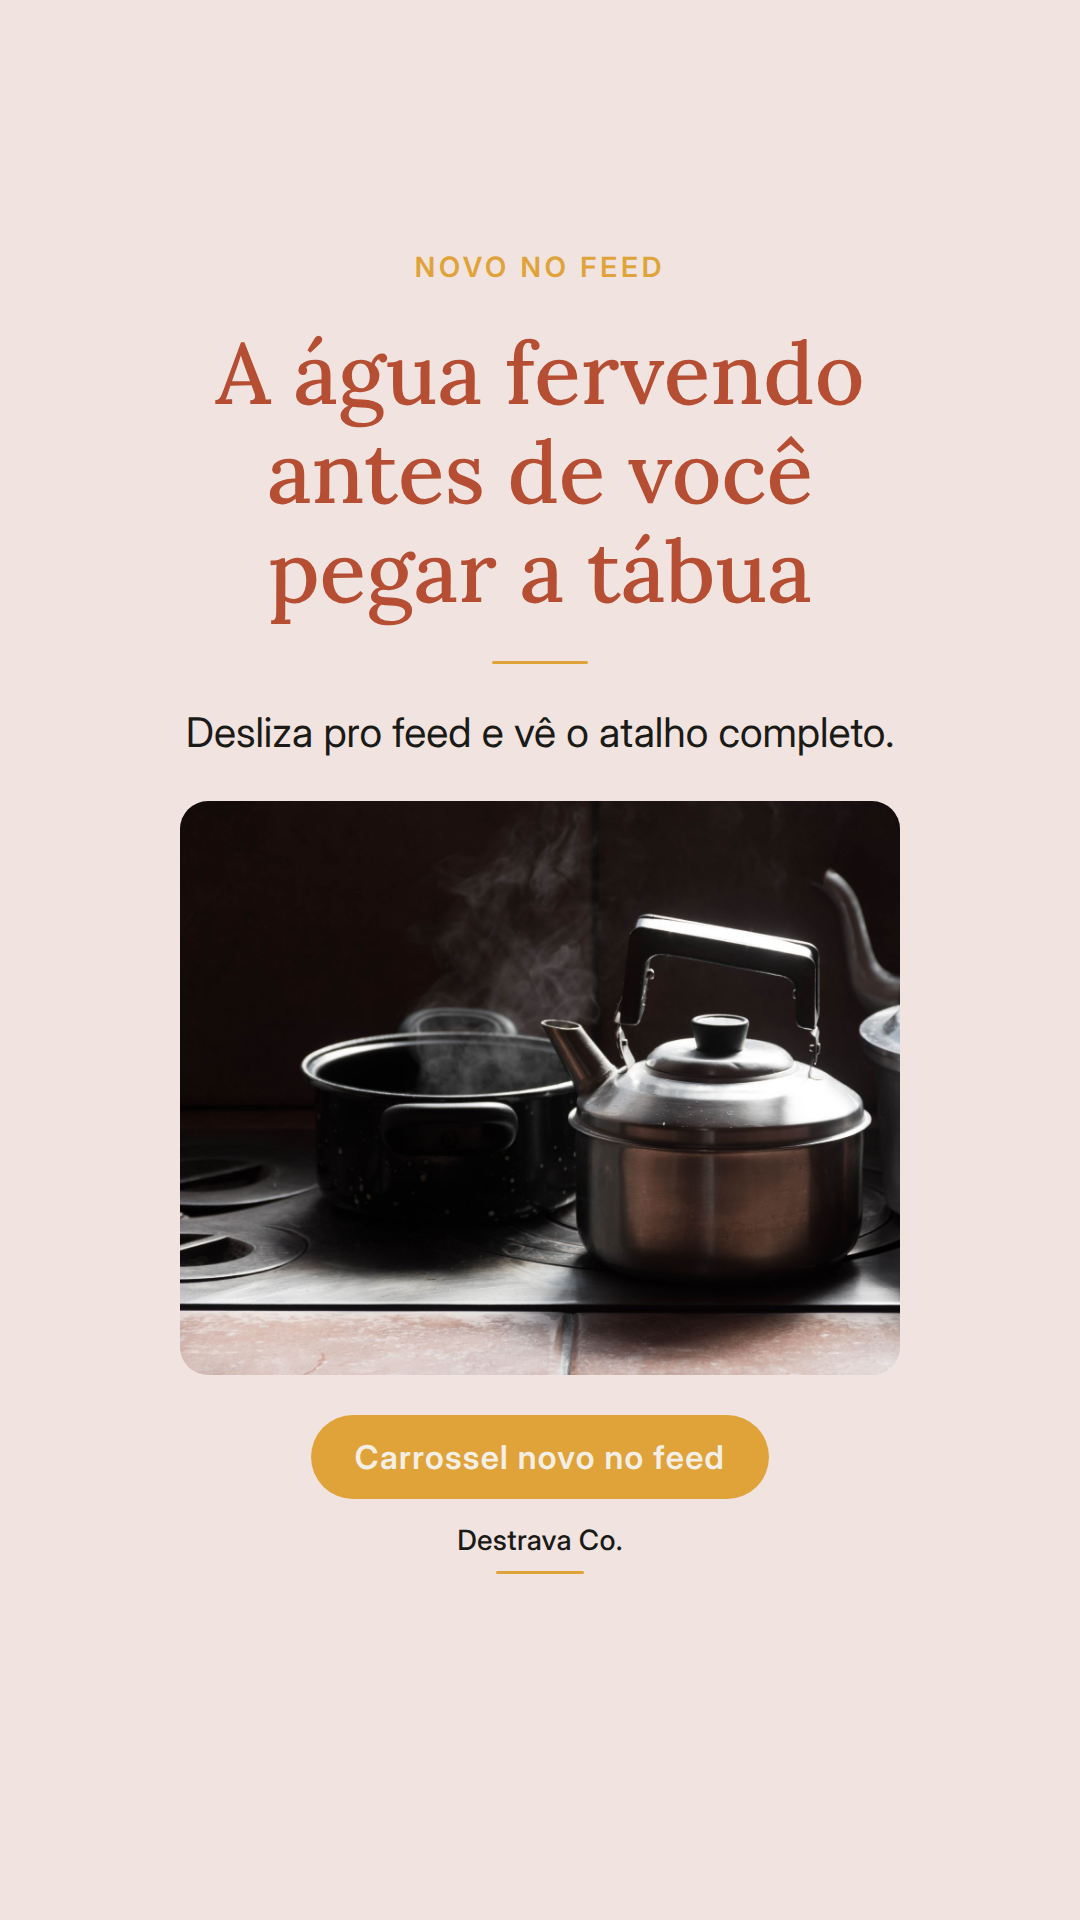
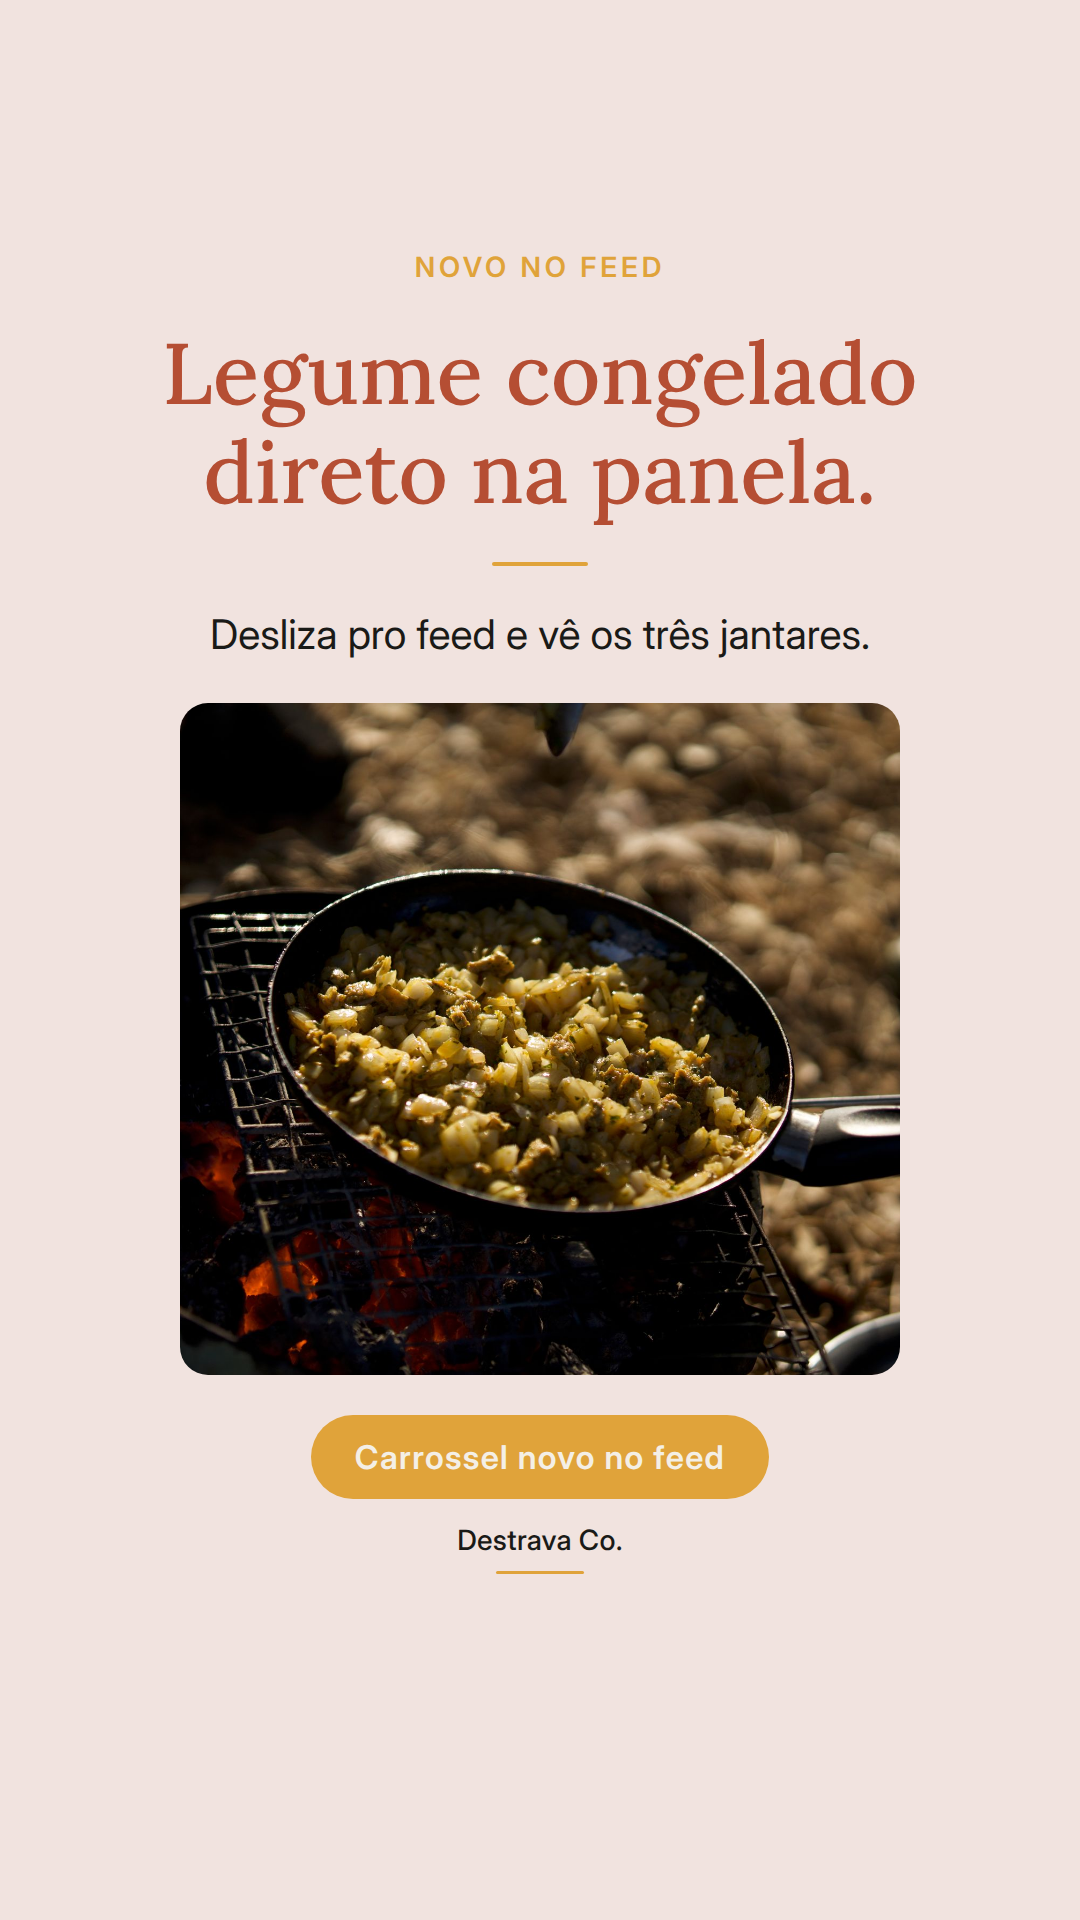
content: peças Instagram 2026_11_03

Changed region(s): [[0.1528, 0.1562, 0.8556, 0.7188]]

diff --git a/public/content/2026_11_03/index.html b/public/content/2026_11_03/index.html
@@ -19,23 +19,22 @@
 </head>
 <body>
 <h1>Cozinha · capa B (wash2)</h1>
-<div class="meta">2026-11-03 · gerado em 2026-11-03T10:02:06 · sticker sugerido nos Stories: quiz</div>
+<div class="meta">2026-11-03 · gerado em 2026-11-03T11:27:12 · sticker sugerido nos Stories: quiz</div>
 <h2>Carrossel</h2>
-<div class="strip"><img src="2026_11_03_-_Carrossel_Cozinha_01.png" alt="Capa com foto de panela e chaleira com água fervendo sobre fundo wash2 da linha, com o título em campo dizendo que a água já fervendo é o atalho do jantar de semana." title="2026_11_03_-_Carrossel_Cozinha_01.png"><img src="2026_11_03_-_Carrossel_Cozinha_02.png" alt="Lâmina de fundo wash1 bem claro com o título em campo profundo explicando ligar a chaleira antes de cortar os ingredientes." title="2026_11_03_-_Carrossel_Cozinha_02.png"><img src="2026_11_03_-_Carrossel_Cozinha_03.png" alt="Lâmina de fundo wash1 bem claro com o título em campo profundo dizendo que menos água na panela ferve mais rápido." title="2026_11_03_-_Carrossel_Cozinha_03.png"><img src="2026_11_03_-_Carrossel_Cozinha_04.png" alt="Lâmina de fundo wash1 bem claro com o título em campo profundo e três usos da água fervente já pronta." title="2026_11_03_-_Carrossel_Cozinha_04.png"><img src="2026_11_03_-_Carrossel_Cozinha_05.png" alt="Lâmina de CTA com fundo campo profundo, texto creme e botão no tom de acento convidando a baixar o PDF com 20 receitas rápidas." title="2026_11_03_-_Carrossel_Cozinha_05.png"></div>
+<div class="strip"><img src="2026_11_03_-_Carrossel_Cozinha_01.png" alt="Fundo wash2 da linha Cozinha com foto de legumes congelados numa frigideira quente e o título em campo." title="2026_11_03_-_Carrossel_Cozinha_01.png"><img src="2026_11_03_-_Carrossel_Cozinha_02.png" alt="Fundo wash1 bem claro com o título no campo profundo e três passos de como usar legume congelado na panela." title="2026_11_03_-_Carrossel_Cozinha_02.png"><img src="2026_11_03_-_Carrossel_Cozinha_03.png" alt="Fundo wash1 bem claro com o título no campo profundo e três opções de legumes congelados para ter em casa." title="2026_11_03_-_Carrossel_Cozinha_03.png"><img src="2026_11_03_-_Carrossel_Cozinha_04.png" alt="Fundo wash1 bem claro com o título no campo profundo e três combinações rápidas de jantar." title="2026_11_03_-_Carrossel_Cozinha_04.png"><img src="2026_11_03_-_Carrossel_Cozinha_05.png" alt="Fundo campo profundo com texto creme e botão no tom de acento convidando a baixar o PDF de receitas rápidas." title="2026_11_03_-_Carrossel_Cozinha_05.png"></div>
 <h2>Stories</h2>
-<div class="strip"><img class="story" src="2026_11_03_-_Stories_Cozinha_01.png" alt="Story com fundo wash2 da linha e título em campo falando da água fervendo antes do preparo, convidando a deslizar pro feed." title="2026_11_03_-_Stories_Cozinha_01.png"><img class="story" src="2026_11_03_-_Stories_Cozinha_02.png" alt="Stories em fundo terracota com convite ao e-book gratuito de 20 receitas rápidas e o endereço da página em destaque no chip mostarda." title="2026_11_03_-_Stories_Cozinha_02.png"></div>
+<div class="strip"><img class="story" src="2026_11_03_-_Stories_Cozinha_01.png" alt="Fundo wash2 da linha com o título em campo e convite para deslizar até o feed." title="2026_11_03_-_Stories_Cozinha_01.png"><img class="story" src="2026_11_03_-_Stories_Cozinha_02.png" alt="Stories em fundo terracota com convite ao e-book gratuito de 20 receitas rápidas e o endereço da página em destaque no chip mostarda." title="2026_11_03_-_Stories_Cozinha_02.png"></div>
 <div class="meta">1º · stories post do dia · <a href="2026_11_03_-_Stories_Cozinha_01.png" download="2026_11_03_-_Stories_Cozinha_01.png">⬇ baixar</a> · sticker de link → post do dia (permalink em publicado.json depois de publicar) · sticker extra sugerido: quiz</div><div class="meta">2º · stories oferta · <a href="2026_11_03_-_Stories_Cozinha_02.png" download="2026_11_03_-_Stories_Cozinha_02.png">⬇ baixar</a> · sticker de link → <a href="https://lp.destravaco.com.br/receitas-15min">https://lp.destravaco.com.br/receitas-15min</a></div>
 <div class="meta">Stories não vão pela API: baixe e poste no app colando o sticker de link.</div>
 <h2>Legenda</h2>
-<pre>Jantar rápido começa antes do fogo: com a água já fervendo.
-Parece bobo, mas é o passo que mais encurta a receita de dia corrido.
+<pre>Legume congelado não precisa descongelar: ele vai direto do freezer pra panela quente e vira jantar em minutos.
 
-A chaleira ferve mais rápido que a panela e trabalha sozinha enquanto você corta o resto. Quando a frigideira esquenta, a água já está lá, pronta pra cozinhar a massa, escaldar o legume duro ou hidratar o cuscuz.
+O segredo é a panela bem quente, fogo alto e pouca quantidade de cada vez. Assim a água evapora rápido e o legume cora em vez de virar aquele cozido murcho no fundo.
 
-E um detalhe que quase ninguém conta: água demais só atrasa. Cubra o alimento e pronto.
+Ter ervilha, brócolis ou espinafre guardados é o que salva a terça-feira sem mercado. Arroz de ontem com ervilha e ovo já é jantar. Macarrão com brócolis cozido na mesma água também.
 
-Salva pra lembrar na próxima correria e manda pra quem chega em casa sem ideia do que fazer. Se quiser as 20 receitas rápidas até 15 min em PDF, elas estão esperando no meu perfil.
+Salva pra lembrar na próxima compra e manda pra quem sempre chega tarde em casa. Se quiser mais ideias desse tipo, o PDF com 20 receitas rápidas de até 15 minutos está esperando por você.
 
-<span class="tags">#receitasrapidas #jantarpratico #cozinhapratica #praticidadenacozinha #receitasfaceis</span></pre>
+<span class="tags">#receitasrapidas #jantarpratico #cozinhapratica #praticidadenacozinha #comidadeverdade</span></pre>
 </body>
 </html>
